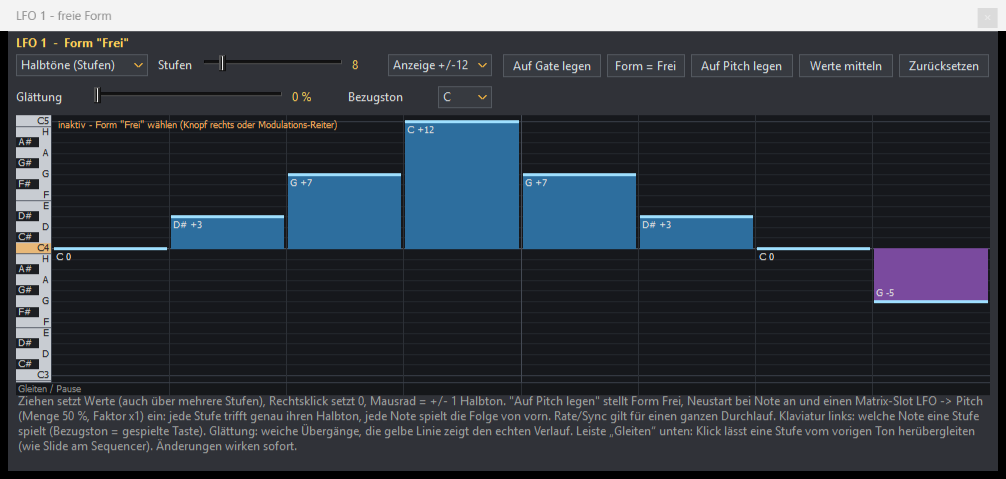
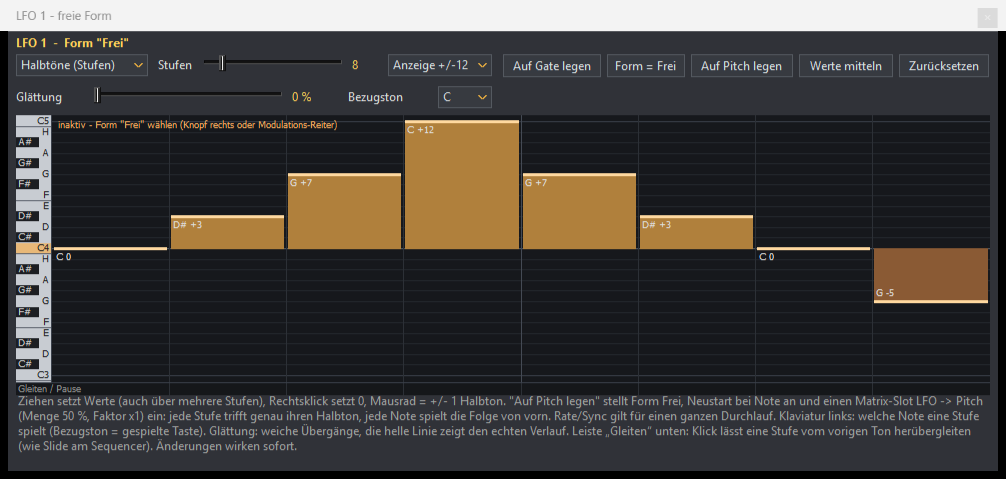
Bernstein fuer Welle zeichnen/Step-Sequencer, Skript fuer GUI-Check und Doku-Bilder, Doku-Bilder

Changed region(s): [[0.0616, 0.2338, 0.9861, 0.643], [0.4006, 0.8768, 0.9861, 0.9353]]

diff --git a/CLAUDE.md b/CLAUDE.md
@@ -137,7 +137,9 @@ Die Oberfläche ist mehrsprachig. Der **deutsche Text ist zugleich der Schlüsse
   - Eigene Fenster ohne Owner-Draw-Knöpfe (z. B. „Audio bearbeiten“) nehmen `TIconButton` aus derselben Unit.
   - **Kein GDI+** in der Plugin-DLL: Es startet beim Laden der DLL (Loader-Lock) und kann die DAW hängen lassen. Geglättet wird mit Graphics32 (`GR32_Polygons`).
   - Farben: Grundfarbe hellgrau, Akzente sparsam – grün = abspielen/übernehmen, rot = Aufnahme/Löschen/Notaus, bernstein = gewählt/aktiv.
-- **Testumgebung:** Umgebungsvariablen `GRANULAR_TAB` (Reiter beim Start), `GRANULAR_LFOPAGE`, `GRANULAR_MATPAGE` und `GRANULAR_AUDIOEDIT=1` (öffnet den Sample-Editor für das Hauptsample, für Bildschirmfotos), `GRANULAR_PRESET=<Datei>` und `GRANULAR_PARAMS='Name=Wert;…'` (nach dem Öffnen ein Preset laden bzw. einzelne Regler per Name aus `PARAM_INFO` setzen, Stufen als Index – z. B. `EQ an=1;Cutoff=1800`; für Bildschirmfotos mit aussagekräftigen Anzeigen: ein kräftiges Key-Preset nehmen und die nötigen Bausteine zuschalten).
+- **Testumgebung:** Umgebungsvariablen `GRANULAR_TAB` (Reiter beim Start), `GRANULAR_LFOPAGE`, `GRANULAR_MATPAGE` und `GRANULAR_AUDIOEDIT=1` (öffnet den Sample-Editor für das Hauptsample, für Bildschirmfotos), `GRANULAR_FREELFO=1..9` (Fenster „freie Form“), `GRANULAR_WAVEEDIT=1..3` („Welle zeichnen“ des Oszillators), `GRANULAR_LANGTEST=en` (englische Oberfläche; danach `bin\<Plattform>\Sprache.txt` wieder auf `de`), `GRANULAR_PRESET=<Datei>` und `GRANULAR_PARAMS='Name=Wert;…'` (nach dem Öffnen ein Preset laden bzw. einzelne Regler per Name aus `PARAM_INFO` setzen, Stufen als Index – z. B. `EQ an=1;Cutoff=1800`; für Bildschirmfotos mit aussagekräftigen Anzeigen: ein kräftiges Key-Preset nehmen und die nötigen Bausteine zuschalten).
+
+- **GUI-Check und Doku-Bilder in einem Durchgang:** `powershell -ExecutionPolicy Bypass -File Tools\gui_shots.ps1 -Doc -Check125`. Fotografiert alle Reiter (ohne Osz 3) bei 100 % (de/en, direkt als `docs\screenshots\…`) und 125 % (nur Prüfung), dazu die Sonderfenster; Übersichten zum Durchsehen in `bin\Win64\gui_check\m*.png`. Ohne `-Doc` nur Prüfbilder. Umlaute im Skript nur als `[char]` (PowerShell 5 liest Dateien ohne BOM als ANSI).
 
 ## Bekannte Eigenheiten
 
